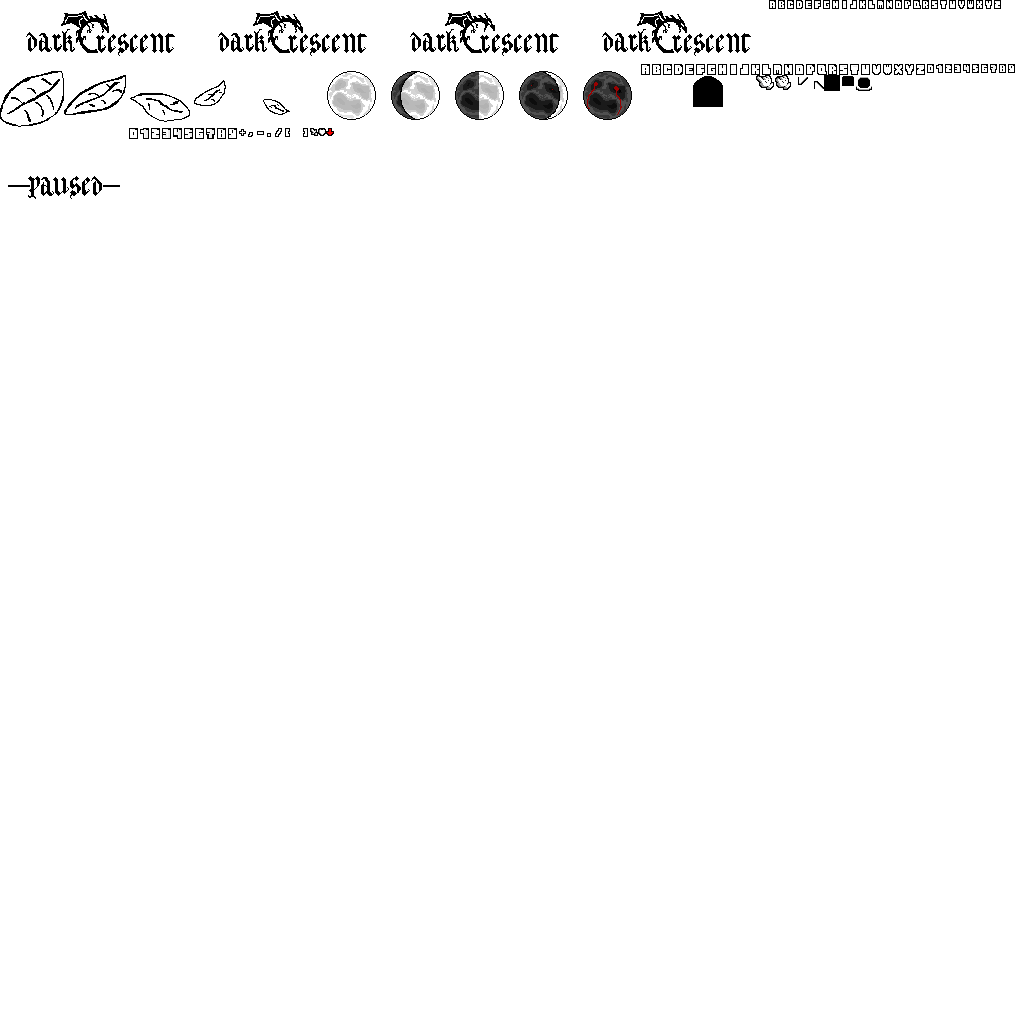
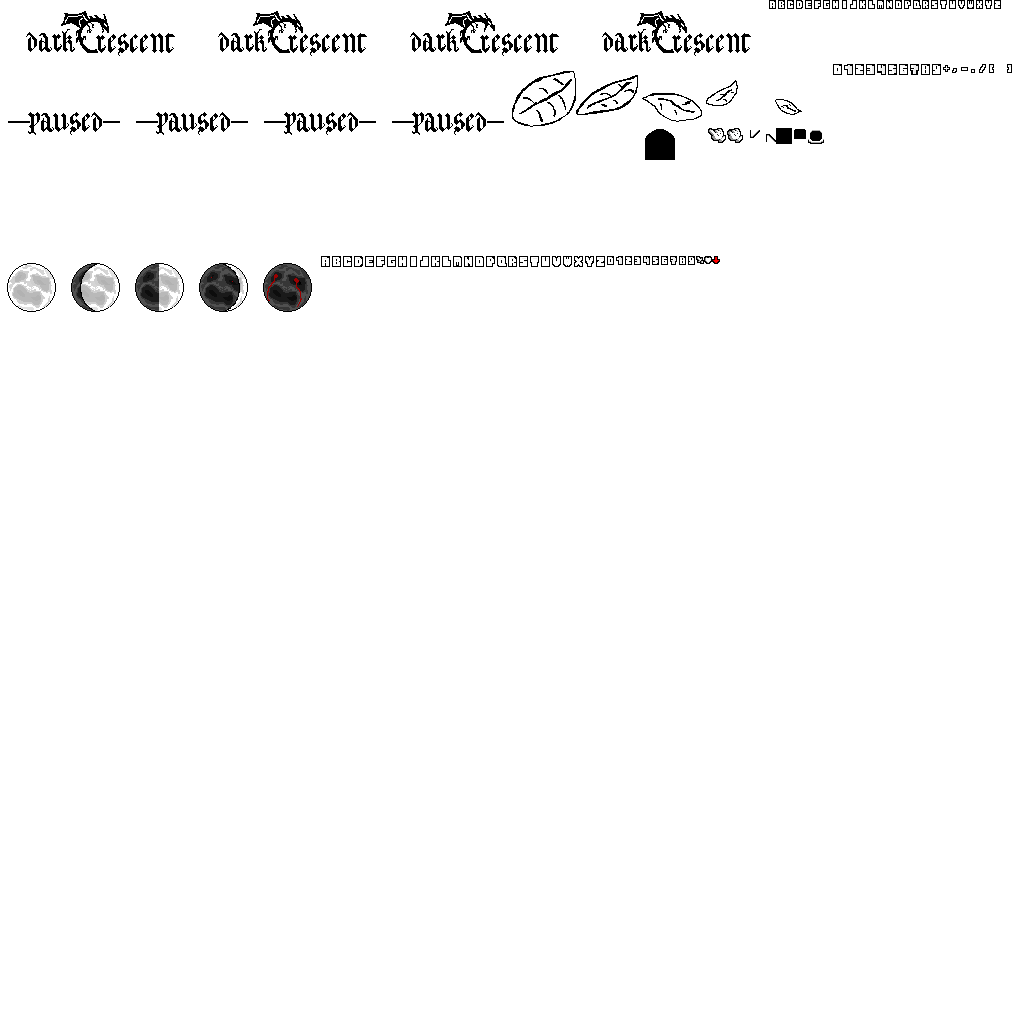
[WIP] Pause menu.

diff --git a/GraphicsEngine/Game/Src/Levels/MainLevel.cpp b/GraphicsEngine/Game/Src/Levels/MainLevel.cpp
@@ -2037,9 +2037,14 @@ namespace game
 		if (ingameMenuOpened)
 		{
 			const auto& pauseMenuTexture = info.atlasTextures[static_cast<uint32_t>(TextureId::pauseMenu)];
+			jv::ge::SubTexture pauseMenuFrames[4];
+			Divide(pauseMenuTexture.subTexture, pauseMenuFrames, 4);
+			
+			const uint32_t index = floor(fmodf(GetTime() * 4, 4));
+
 			PixelPerfectRenderTask pauseMenuRenderTask{};
-			pauseMenuRenderTask.subTexture = pauseMenuTexture.subTexture;
-			pauseMenuRenderTask.scale = pauseMenuTexture.resolution;
+			pauseMenuRenderTask.subTexture = pauseMenuFrames[index];
+			pauseMenuRenderTask.scale = pauseMenuTexture.resolution / glm::ivec2(4, 1);
 			pauseMenuRenderTask.position = SIMULATED_RESOLUTION / 2;
 			pauseMenuRenderTask.xCenter = true;
 			pauseMenuRenderTask.yCenter = true;
